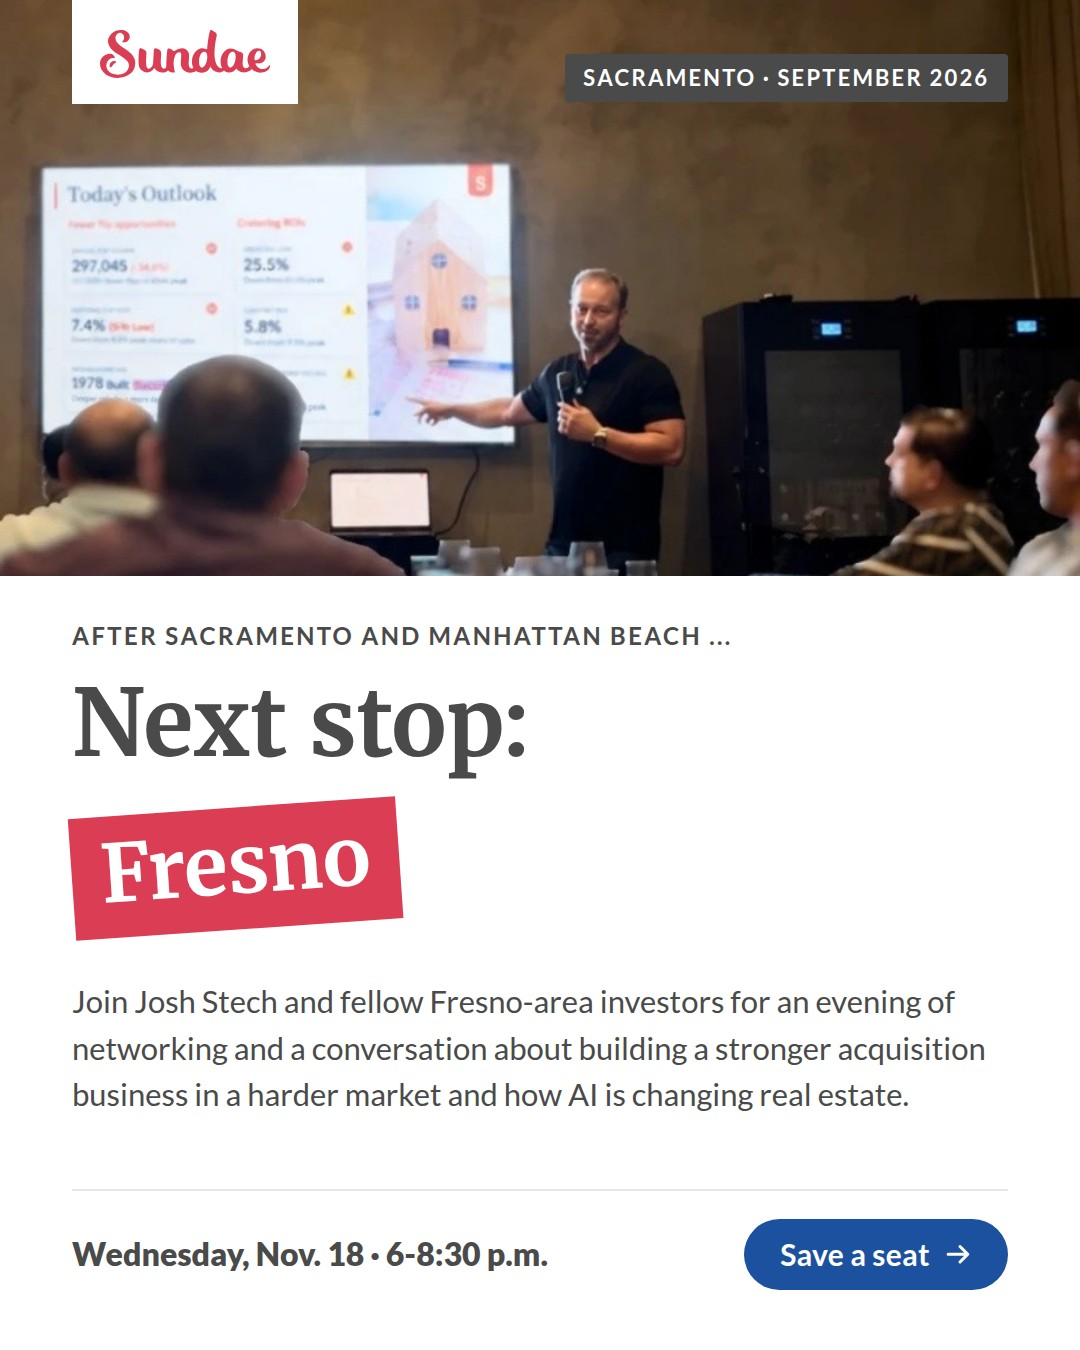
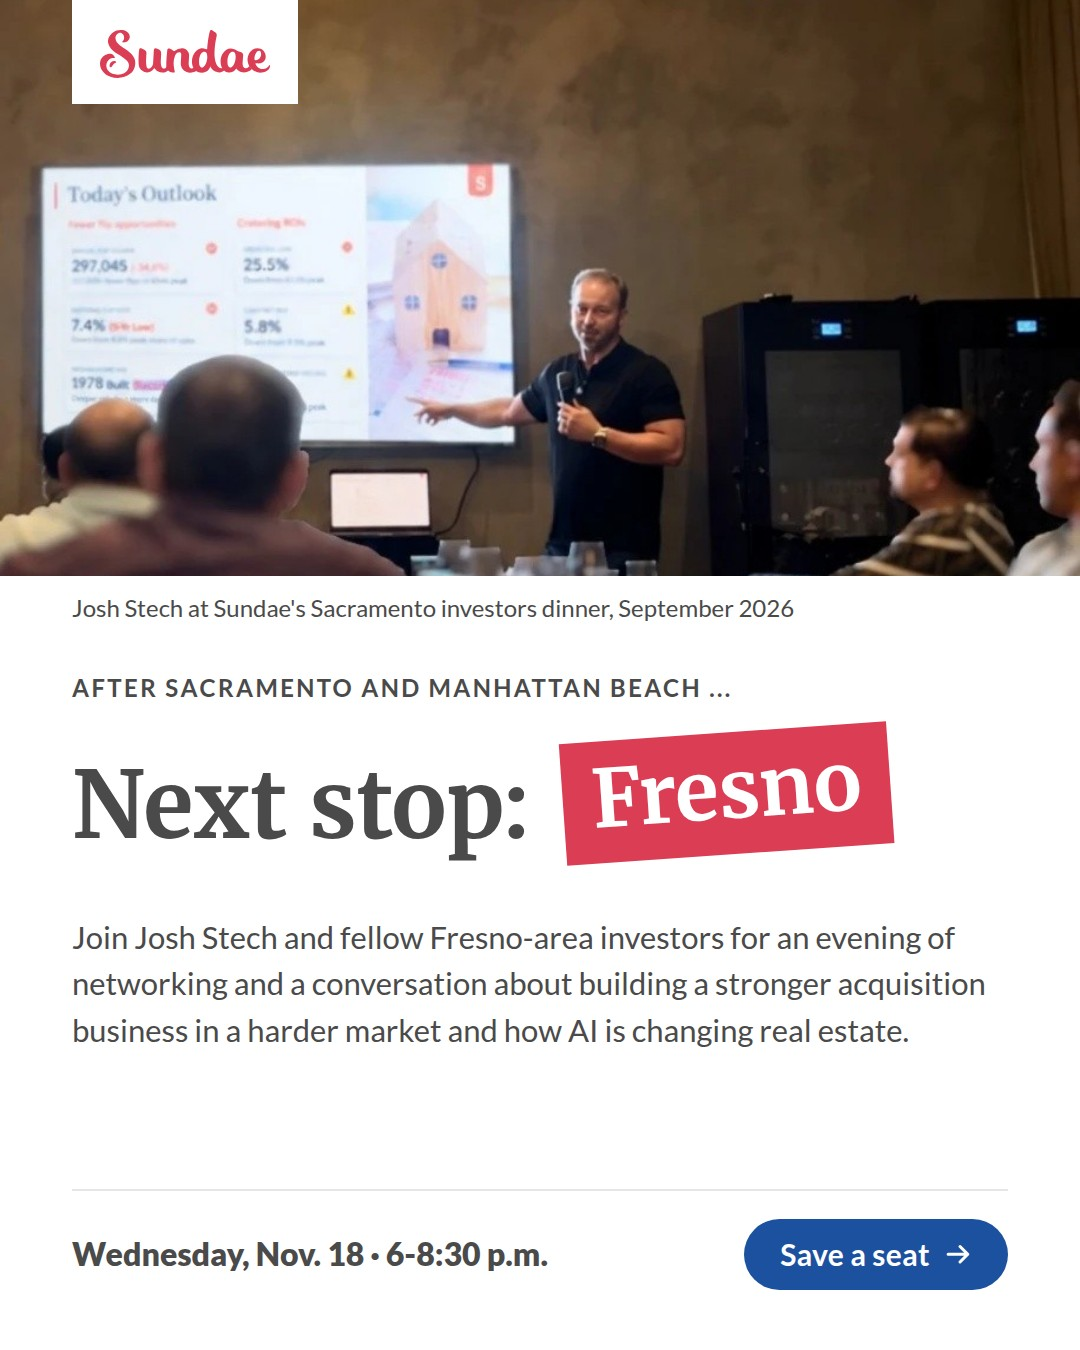
Creative change 20261022-162513-7omh: events/fresno-2026-11-18/images/06 (done)

Changed region(s): [[0.0611, 0.4356, 0.9167, 0.84], [0.5194, 0.0311, 0.9472, 0.0933]]

diff --git a/engine/creatives/events/fresno-2026-11-18/images/06.html b/engine/creatives/events/fresno-2026-11-18/images/06.html
@@ -3,11 +3,12 @@ html,body{width:1080px;height:1350px} .canvas{width:1080px;height:1350px} </styl
 <body><div class="canvas">
 <div class="photo" style="left:0;top:0;width:1080px;height:576px;background-image:url(/kit/assets/sac-dinner.jpg);background-position:50% 40%"></div>
 <div class="wm-tab" style="left:72px;top:0;padding:30px 28px 26px"><img class="wm" src="/kit/assets/sundae-wordmark-red.svg" alt="Sundae" style="width:170px"></div>
-<div style="position:absolute;right:72px;top:54px"><span class="tag" style="font-size:22px">Sacramento · September 2026</span></div>
-<div style="position:absolute;left:72px;right:72px;top:620px">
+<div class="sub" style="position:absolute;left:72px;right:72px;top:592px;font-size:24px;line-height:1.3">Josh Stech at Sundae's Sacramento investors dinner, September 2026</div>
+<div style="position:absolute;left:72px;right:72px;top:672px">
   <div class="eyebrow" style="font-size:24px">After Sacramento and Manhattan Beach&nbsp;...</div>
-  <h1 class="h" style="font-size:92px;margin-top:16px">Next stop:</h1>
-  <div style="margin-top:40px"><span class="box red serif tilt" style="font-size:80px;padding:.12em .36em .2em">Fresno</span></div>
-  <p class="body" style="font-size:31px;line-height:1.5;margin-top:38px;max-width:920px">Join Josh Stech and fellow Fresno-area investors for an evening of networking and a conversation about building a stronger acquisition business in a harder market and how AI is changing real estate.</p></div>
+  <div style="display:flex;align-items:center;gap:34px;margin-top:40px">
+    <h1 class="h" style="font-size:92px;white-space:nowrap">Next stop:</h1>
+    <span class="box red serif tilt" style="font-size:80px;padding:.12em .36em .2em;white-space:nowrap">Fresno</span></div>
+  <p class="body" style="font-size:31px;line-height:1.5;margin-top:48px;max-width:920px">Join Josh Stech and fellow Fresno-area investors for an evening of networking and a conversation about building a stronger acquisition business in a harder market and how AI is changing real estate.</p></div>
 <div style="position:absolute;left:72px;right:72px;bottom:60px;display:flex;justify-content:space-between;align-items:center;border-top:2px solid var(--gray);padding-top:28px">
   <div class="h-lato" style="font-size:32px">Wednesday, Nov. 18 · 6-8:30 p.m.</div><span class="btn" style="font-size:30px">Save a seat<svg class="arr" viewBox="0 0 24 24" aria-hidden="true"><path d="M3.5 12h16.5M13.5 5.5 20 12l-6.5 6.5" fill="none" stroke="currentColor" stroke-width="2.6" stroke-linecap="round" stroke-linejoin="round"/></svg></span></div></div></body></html>
